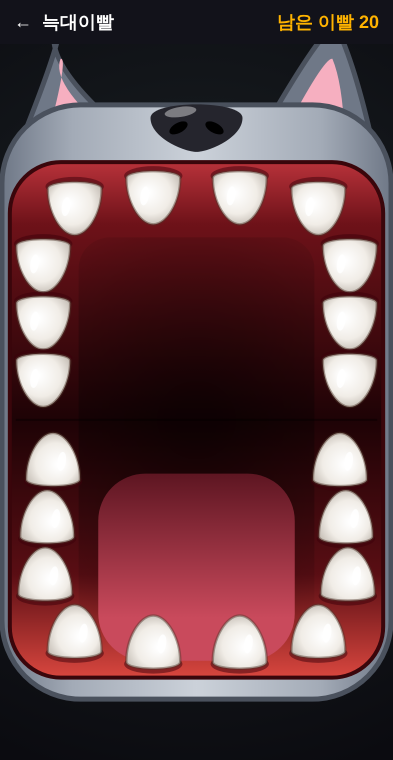
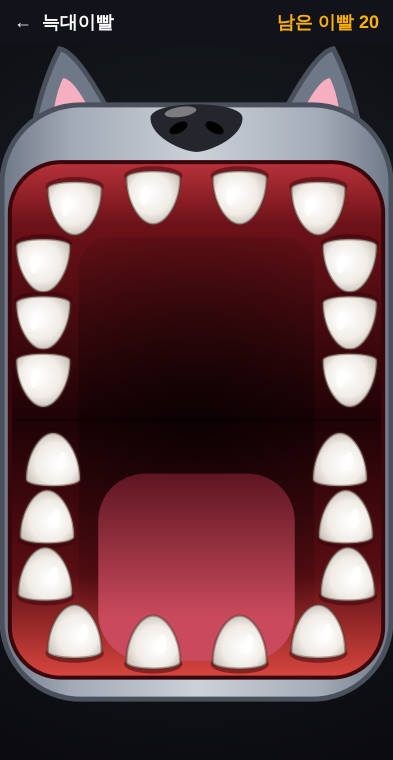
시안: 늑대이빨 왼쪽 귀 좌우 대칭으로 수정
Claude-Session: https://claude.ai/code/session_013mN1tc9XfbmBn9GeSidaFd

Changed region(s): [[0.7023, 0.0605, 0.9466, 0.1816], [0.1221, 0.0605, 0.2748, 0.1513], [0.0611, 0.0908, 0.1221, 0.1816]]

diff --git a/docs/samples/teeth/teeth.js b/docs/samples/teeth/teeth.js
@@ -35,17 +35,17 @@ function furFrame(c, x, y, w, h, r) {
 function ears(c, W, y, s = 1, droop = 0, cx = W / 2) {
   for (const sd of [-1, 1]) {
     const x = cx + sd * W * 0.3;
-    c.save(); c.translate(x, y); c.rotate(sd * droop);
-    c.beginPath(); c.moveTo(-58 * s, 20); c.quadraticCurveTo(sd * 10 * s, -100 * s, sd * 22 * s, -96 * s); c.quadraticCurveTo(sd * 40 * s, -60 * s, 58 * s, 20); c.closePath();
+    c.save(); c.translate(x, y); c.scale(sd, 1); c.rotate(droop); // 왼쪽 귀는 오른쪽 귀를 좌우로 뒤집어서 그림
+    c.beginPath(); c.moveTo(-58 * s, 20); c.quadraticCurveTo(-4 * s, -92 * s, 22 * s, -96 * s); c.quadraticCurveTo(46 * s, -50 * s, 58 * s, 20); c.closePath();
     c.fillStyle = FUR_D; c.fill(); c.lineWidth = 5; c.strokeStyle = OL; c.stroke();
-    c.beginPath(); c.moveTo(-30 * s, 10); c.quadraticCurveTo(sd * 10 * s, -66 * s, sd * 18 * s, -64 * s); c.quadraticCurveTo(sd * 28 * s, -40 * s, 30 * s, 10); c.closePath(); c.fillStyle = '#F6AFC0'; c.fill();
+    c.beginPath(); c.moveTo(-30 * s, 12); c.quadraticCurveTo(0, -60 * s, 18 * s, -62 * s); c.quadraticCurveTo(32 * s, -34 * s, 30 * s, 12); c.closePath(); c.fillStyle = '#F6AFC0'; c.fill();
     c.restore();
   }
 }
 // ---------- 벌린 입 ----------
 function openMouth(c, W, H, lay, s) {
   const { X, Y } = lay;
-  ears(c, W, Y(0.11), 1);
+  ears(c, W, Y(0.122), 0.86);
   furFrame(c, X(0.005), Y(0.085), X(0.99), Y(0.915) - Y(0.085), X(0.2));
   // 코 (위쪽 털 위)
   c.save(); c.translate(W / 2, Y(0.12));
